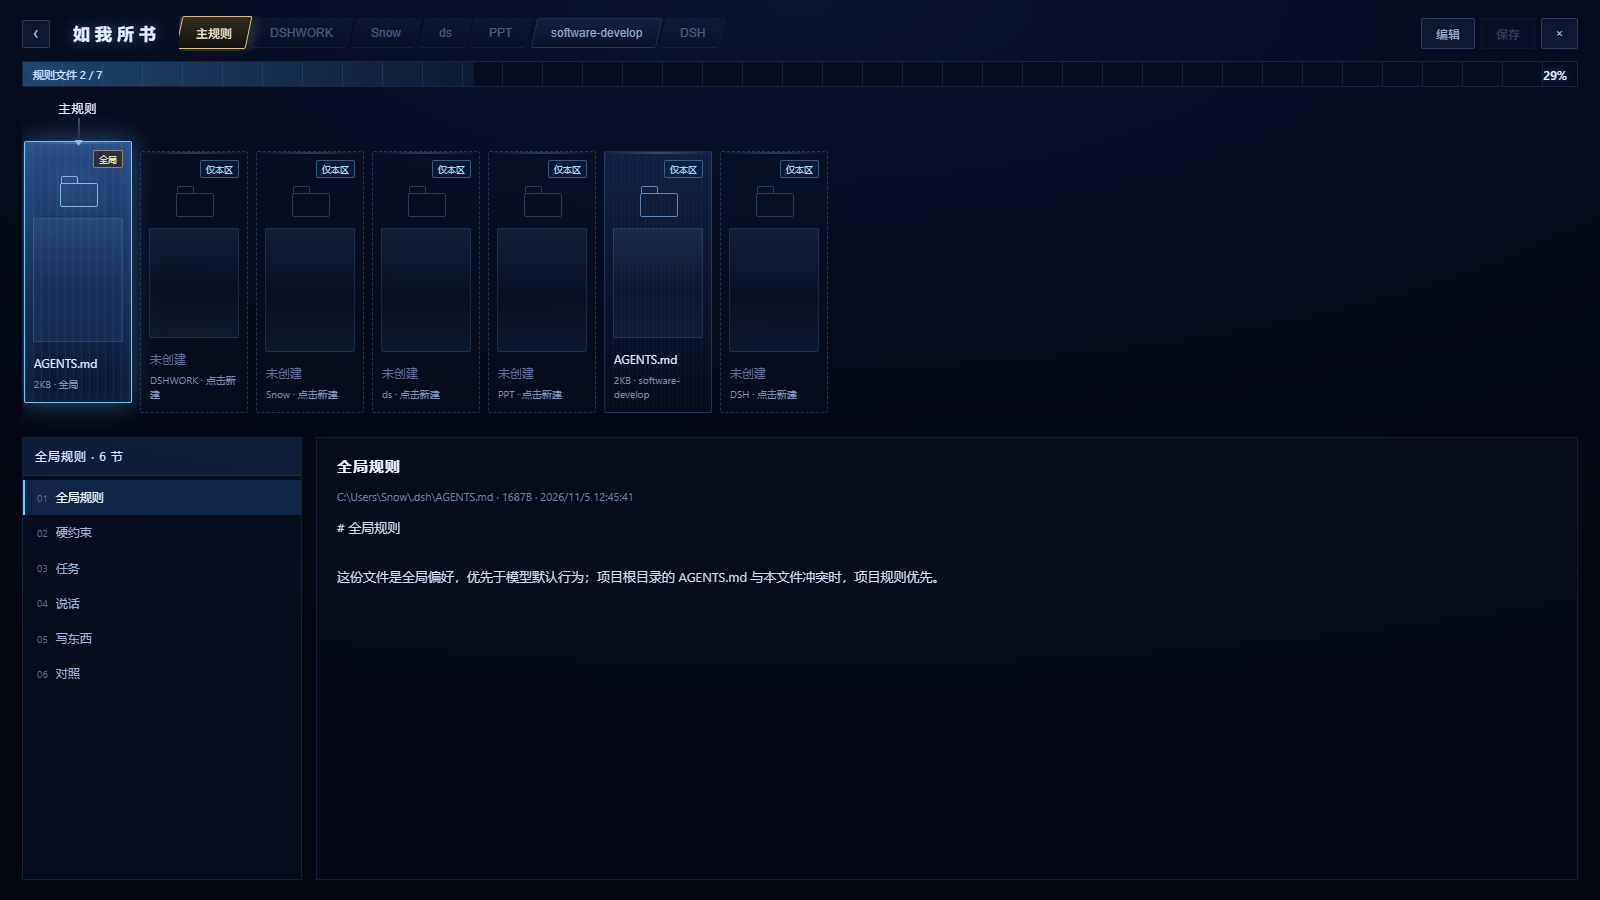
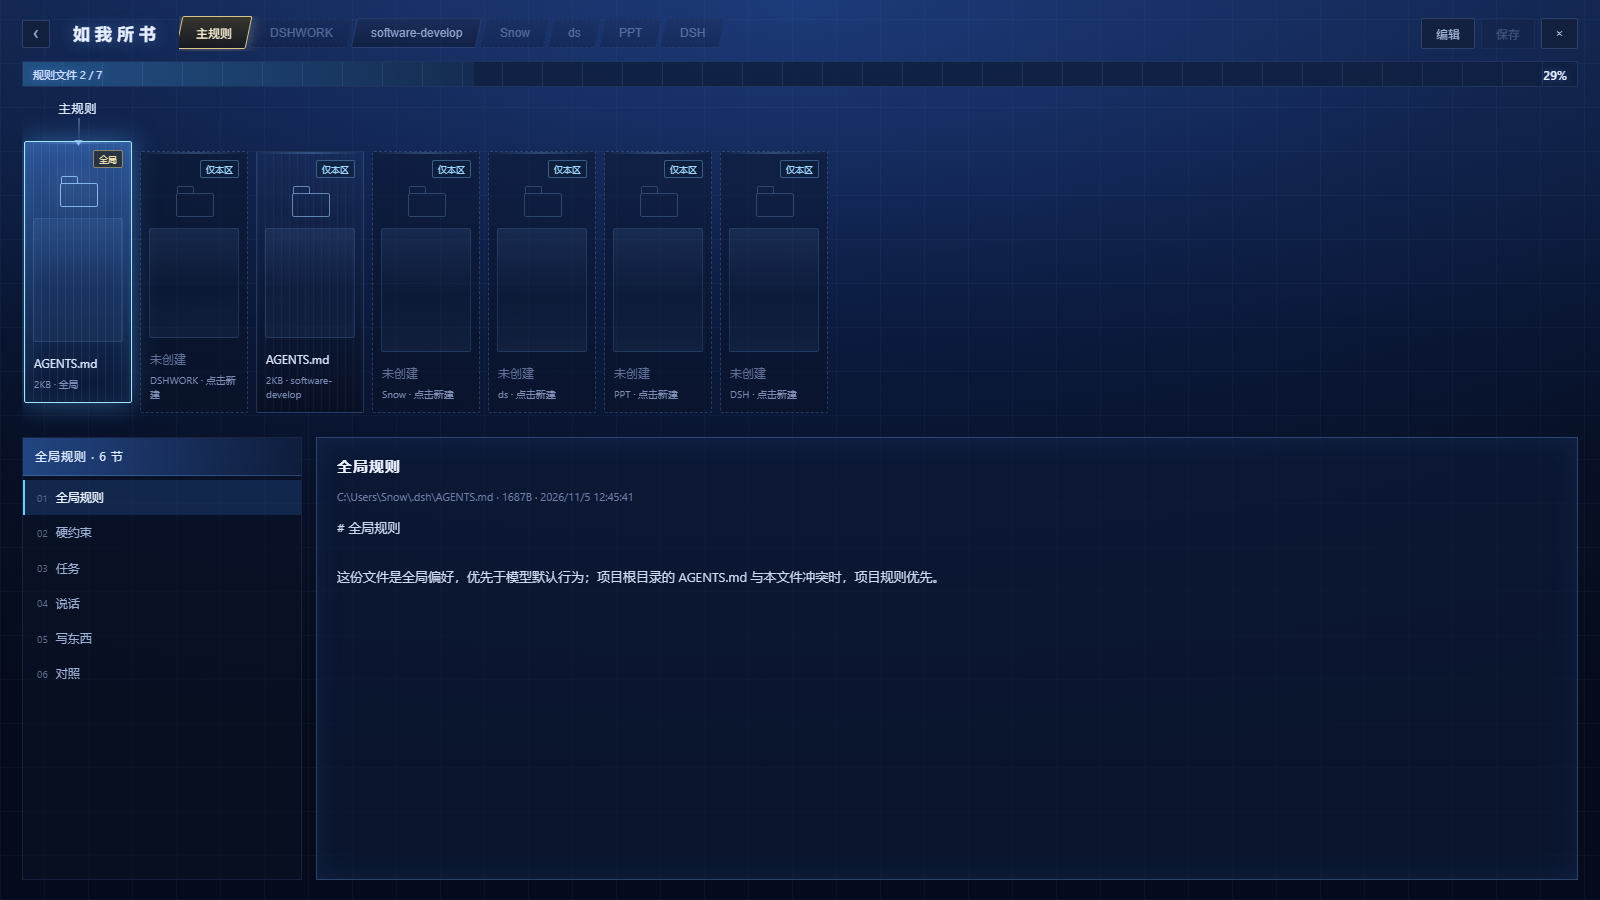
选中态加金色粗环与四角、丝带改正常叠色、修 W 遮蔽导致的 TDZ 崩溃、规则区提亮

diff --git a/public/index.html b/public/index.html
@@ -94,7 +94,11 @@
 
 /* ---------- 第三幕：规则区 ---------- */
 #rules { position: fixed; inset: 0; z-index: 40; display: flex; flex-direction: column;
-  background: radial-gradient(120% 80% at 50% 0%, #0b1430 0%, #050a18 55%, #03060f 100%);
+  background:
+    linear-gradient(180deg, rgba(90,150,255,0.10), transparent 38%),
+    repeating-linear-gradient(0deg, rgba(120,180,255,0.045) 0 1px, transparent 1px 44px),
+    repeating-linear-gradient(90deg, rgba(120,180,255,0.045) 0 1px, transparent 1px 44px),
+    radial-gradient(120% 85% at 50% 0%, #16306b 0%, #0c1c42 38%, #071026 72%, #050b1a 100%);
   padding: 16px 22px 20px; gap: 10px; }
 #rules.hidden { display: none; }
 
@@ -131,7 +135,7 @@
 .r-actions button:disabled { opacity: 0.3; cursor: default; }
 .r-actions button.on { color: #bdf5dd; border-color: rgba(120,220,180,0.6); }
 
-.r-bar { position: relative; height: 26px; background: rgba(8,14,30,0.85);
+.r-bar { position: relative; height: 26px; background: rgba(16,32,64,0.9);
   border: 1px solid rgba(90,120,190,0.22); overflow: hidden; }
 .r-bar-fill { position: absolute; left: 0; top: 0; bottom: 0; width: 0;
   background: linear-gradient(90deg, rgba(70,170,255,0.35), rgba(70,170,255,0.08)); transition: width .4s; }
@@ -178,7 +182,7 @@
 .file-card .f-new { position: absolute; left: 8px; top: 8px; z-index: 2; font-size: 9px; padding: 0 4px;
   border-radius: 2px; color: #1a1206; background: #e8b64c; }
 .file-card:hover { transform: translateY(-5px); border-color: rgba(140,200,255,0.5); }
-.file-card.on { transform: translateY(-10px); border-color: rgba(130,215,255,0.9);
+.file-card.on { transform: translateY(-10px); border-color: rgba(160,230,255,1);
   background:
     repeating-linear-gradient(90deg, rgba(140,200,255,0.09) 0 1px, transparent 1px 8px),
     linear-gradient(180deg, rgba(60,110,190,0.65), rgba(10,24,54,0.76));
@@ -191,8 +195,9 @@
 .r-main { flex: 1; display: grid; grid-template-columns: 280px 1fr; gap: 14px; min-height: 0; }
 .r-list { display: flex; flex-direction: column; min-height: 0; border: 1px solid rgba(90,120,190,0.18);
   background: rgba(10,18,38,0.6); }
-.r-list-head { padding: 9px 12px; font-size: 12px; color: #cfe0ff; letter-spacing: 1px;
-  border-bottom: 1px solid rgba(90,120,190,0.18); background: rgba(40,70,130,0.25); }
+.r-list-head { padding: 9px 12px; font-size: 12px; color: #dcebff; letter-spacing: 1px;
+  border-bottom: 1px solid rgba(110,170,240,0.3);
+  background: linear-gradient(90deg, rgba(60,120,220,0.5), rgba(30,60,120,0.25)); }
 .r-list-body { overflow-y: auto; flex: 1; padding: 4px 0; }
 .sec-item { padding: 8px 12px; font-size: 12px; color: #9db0d6; cursor: pointer;
   display: flex; align-items: center; gap: 8px; border-left: 2px solid transparent; }
@@ -201,8 +206,9 @@
 .sec-item:hover { background: rgba(60,100,180,0.14); color: #cfe0ff; }
 .sec-item.on { color: #eaf3ff; border-left-color: #6cd0ff; background: rgba(60,130,230,0.2); }
 
-.r-detail { display: flex; flex-direction: column; min-height: 0; gap: 10px;
-  border: 1px solid rgba(90,120,190,0.18); background: rgba(8,14,30,0.55); padding: 16px 20px; }
+.r-detail { display: flex; flex-direction: column; min-height: 0; gap: 10px; position: relative;
+  border: 1px solid rgba(110,170,240,0.32); background: rgba(14,28,58,0.62); padding: 16px 20px;
+  box-shadow: inset 0 0 30px rgba(70,140,255,0.10); }
 .r-detail h3 { margin: 0; font-size: 15px; font-weight: 600; color: #eaf2ff; letter-spacing: 1px; }
 .r-meta { font-size: 11px; color: #6f80a8; word-break: break-all; }
 #r-view { flex: 1; overflow: auto; margin: 0; font-size: 13px; line-height: 1.9; color: #cfdaf0;
@@ -818,6 +824,8 @@
     } else if (stage === 'morph') {
       morphT = Math.max(0, Math.min(1, morphT + (dt / MORPH_SECONDS) * morphDir));
       focusTarget.x *= 0.88; focusTarget.y *= 0.88; focusTarget.z *= 0.88;
+      // 凝缩时把 yaw 压回 0，保证每一轮的收束角度完全一样
+      target.yaw += (0 - target.yaw) * 0.16;
       if (morphT >= 1) stage = 'symbol';
       else if (morphT <= 0) { stage = 'galaxy'; setChrome(true); }
     }
@@ -896,133 +904,201 @@
     const cx = W / 2, cy = H / 2;
     const hover = hoverAmt;
     const selNow = stage === 'selected' || stage === 'panel';
-    const f = 1 + 0.03 * hover;
-    const size = SYMBOL_PX * f * (infScale == null ? 1 : infScale);
-    const A = size * 0.5, B = size * 0.21;
-    const pulse = 0.5 + 0.5 * Math.sin(t * 2.4);
+    const size = SYMBOL_PX * (1 + 0.03 * hover) * (infScale == null ? 1 : infScale);
+    const A = size * 0.5, B = size * 0.22;
+    const pulse = 0.5 + 0.5 * Math.sin(t * 2.2);
+    const k = 1 + 0.25 * hover;
+
+    // 曲线与法线
+    const pt = (u) => ({ x: A * Math.sin(u), y: B * Math.sin(u) * Math.cos(u) });
+    const dpt = (u) => ({ x: A * Math.cos(u), y: B * (Math.cos(u) * Math.cos(u) - Math.sin(u) * Math.sin(u)) });
+    const norm = (u) => { const d = dpt(u), L = Math.hypot(d.x, d.y) || 1; return { x: -d.y / L, y: d.x / L }; };
 
     ctx.save();
     ctx.globalCompositeOperation = 'lighter';
-
-    // 背后的紫蓝柔光（不跟着转，否则会有旋涡感）
-    const bgR = size * 0.95;
-    const bg = ctx.createRadialGradient(cx, cy, 0, cx, cy, bgR);
-    bg.addColorStop(0, 'rgba(96,116,230,' + (0.22 * alpha).toFixed(3) + ')');
-    bg.addColorStop(0.55, 'rgba(74,58,190,' + (0.10 * alpha).toFixed(3) + ')');
-    bg.addColorStop(1, 'rgba(18,10,60,0)');
-    ctx.fillStyle = bg;
-    ctx.beginPath(); ctx.arc(cx, cy, bgR, 0, Math.PI * 2); ctx.fill();
-
-    // 外环、刻度、丝带、星核一起自转 —— 录屏里整个徽标是在慢慢转的
-    ctx.save();
     ctx.translate(cx, cy);
-    ctx.rotate(iconSpin);
-    ctx.translate(-cx, -cy);
 
-    // 外环：素材里没有刻度环，只有一圈很淡的冷光
-    const R0 = size * 0.62;
-    const halo = ctx.createRadialGradient(cx, cy, R0 * 0.55, cx, cy, R0 * 1.25);
-    halo.addColorStop(0, 'rgba(90,140,255,0)');
-    halo.addColorStop(0.55, 'rgba(110,170,255,' + (0.06 * alpha * (1 + hover)).toFixed(3) + ')');
-    halo.addColorStop(1, 'rgba(90,140,255,0)');
-    ctx.fillStyle = halo;
-    ctx.beginPath(); ctx.arc(cx, cy, R0 * 1.25, 0, Math.PI * 2); ctx.fill();
+    // 背景：紫蓝星云（没有边界），加满屏放射细线
+    const neb = ctx.createRadialGradient(0, 0, 0, 0, 0, size * 1.15);
+    neb.addColorStop(0, `rgba(120,110,255,${0.30 * alpha})`);
+    neb.addColorStop(0.35, `rgba(96,80,220,${0.16 * alpha})`);
+    neb.addColorStop(0.7, `rgba(64,48,170,${0.06 * alpha})`);
+    neb.addColorStop(1, 'rgba(30,20,90,0)');
+    ctx.fillStyle = neb;
+    ctx.beginPath(); ctx.arc(0, 0, size * 1.15, 0, Math.PI * 2); ctx.fill();
 
-    // 悬停时光沿轨道扫一圈（一条柔和的弧，不是刻度）
-    if (hover > 0.05) {
-      const head = sweep * Math.PI * 2 - Math.PI / 2;
-      const span = 1.1;
-      ctx.lineWidth = 2;
-      // 角度必须从小到大：起点大于终点时 canvas 会绕整整一圈
-      for (let i = 0; i < 18; i++) {
-        const a0 = head - span + span * (i / 18);
-        const a1 = a0 + span / 18 + 0.002;
-        ctx.strokeStyle = 'rgba(190,220,255,' + (0.5 * hover * alpha * Math.pow(i / 18, 2.2)).toFixed(3) + ')';
-        ctx.beginPath();
-        ctx.arc(cx, cy, R0, a0, a1);
-        ctx.stroke();
-      }
+    for (let i = 0; i < 26; i++) {
+      const a = (i / 26) * Math.PI * 2 + spin * 0.1;
+      const len = size * (0.55 + 0.5 * ((i * 37) % 100) / 100);
+      const g = ctx.createLinearGradient(0, 0, Math.cos(a) * len, Math.sin(a) * len);
+      g.addColorStop(0, `rgba(200,215,255,${0.16 * alpha * k})`);
+      g.addColorStop(1, 'rgba(160,180,255,0)');
+      ctx.strokeStyle = g;
+      ctx.lineWidth = 1;
+      ctx.beginPath(); ctx.moveTo(0, 0); ctx.lineTo(Math.cos(a) * len, Math.sin(a) * len); ctx.stroke();
     }
 
-    // 丝带：沿法线方向按宽度剖面填实，中间粗、交点细，像素材里那条拧起来的带子
-    const pt = (u) => ({ x: cx + A * Math.sin(u), y: cy + B * Math.sin(u) * Math.cos(u) });
-    const dpt = (u) => ({ x: A * Math.cos(u), y: B * (Math.cos(u) * Math.cos(u) - Math.sin(u) * Math.sin(u)) });
-    const N = 260;
-    const W0 = size * 0.024;
-    const band = (wid, al) => {
-      ctx.lineCap = 'butt';
-      ctx.lineWidth = 2.4;
-      for (let i = 0; i <= N; i++) {
-        const u = (i / N) * Math.PI * 2;
-        const q = pt(u), d = dpt(u);
-        const len = Math.hypot(d.x, d.y) || 1;
-        const nx = -d.y / len, ny = d.x / len;
-        const half = W0 * wid * (0.3 + 0.7 * Math.abs(Math.sin(u)));
-        ctx.strokeStyle = ribbonColor((q.x - (cx - A)) / (2 * A));
-        ctx.globalAlpha = alpha * al;
-        ctx.beginPath();
-        ctx.moveTo(q.x - nx * half, q.y - ny * half);
-        ctx.lineTo(q.x + nx * half, q.y + ny * half);
-        ctx.stroke();
-      }
-    };
-    band(2.4, 0.08);   // 外发光
-    band(1.0, 0.95);   // 实心带
+    // 金色粗环 + 四角（素材里选中时最明显的那圈）
+    const R = size * 0.62;
+    const ringA = (0.42 + 0.48 * hover) * alpha;
+    const gold = ctx.createLinearGradient(-R, -R, R, R);
+    gold.addColorStop(0, '#f6e6b8');
+    gold.addColorStop(0.35, '#d8b367');
+    gold.addColorStop(0.6, '#f3dfa6');
+    gold.addColorStop(1, '#a97f36');
 
-    // 沿曲线的星尘
-    for (let i = 0; i < 420; i++) {
-      const u = ((i / 420) * Math.PI * 2 + spin) % (Math.PI * 2);
-      const q = pt(u), d = dpt(u);
-      const len = Math.hypot(d.x, d.y) || 1;
-      const nx = -d.y / len, ny = d.x / len;
-      const off = ((i % 9) / 8 - 0.5) * 2 * W0 * 0.9 * (0.3 + 0.7 * Math.abs(Math.sin(u)));
-      ctx.fillStyle = ribbonColor((q.x - (cx - A)) / (2 * A));
-      ctx.globalAlpha = alpha * (0.18 + 0.45 * Math.abs(Math.cos(u)));
-      ctx.fillRect(q.x + nx * off, q.y + ny * off, 1.2, 1.2);
-    }
+    // 主环（粗）
+    ctx.strokeStyle = gold;
+    ctx.globalAlpha = ringA;
+    ctx.lineWidth = 3.4;
+    ctx.beginPath(); ctx.arc(0, 0, R, 0, Math.PI * 2); ctx.stroke();
+    // 环内冷光盘
+    const disc = ctx.createRadialGradient(0, 0, 0, 0, 0, R * 0.95);
+    disc.addColorStop(0, `rgba(70,110,220,${0.22 * alpha * (1 + hover * 0.5)})`);
+    disc.addColorStop(0.6, `rgba(40,70,160,${0.14 * alpha})`);
+    disc.addColorStop(1, 'rgba(20,40,110,0)');
+    ctx.globalAlpha = 1;
+    ctx.fillStyle = disc;
+    ctx.beginPath(); ctx.arc(0, 0, R * 0.95, 0, Math.PI * 2); ctx.fill();
+    // 内侧细环
+    ctx.globalAlpha = ringA * 0.45;
+    ctx.lineWidth = 1;
+    ctx.beginPath(); ctx.arc(0, 0, R * 0.86, 0, Math.PI * 2); ctx.stroke();
 
-    // 中央白核
-    const coreR = size * (0.17 + 0.02 * hover) * (1 + 0.05 * pulse);
-    const g = ctx.createRadialGradient(cx, cy, 0, cx, cy, coreR);
-    g.addColorStop(0, 'rgba(255,255,255,1)');
-    g.addColorStop(0.3, 'rgba(215,230,255,0.72)');
-    g.addColorStop(0.62, 'rgba(150,170,255,0.22)');
-    g.addColorStop(1, 'rgba(90,110,255,0)');
-    ctx.globalAlpha = alpha;
-    ctx.fillStyle = g;
-    ctx.beginPath(); ctx.arc(cx, cy, coreR, 0, Math.PI * 2); ctx.fill();
-
-    // 放射光芒：长短交替，悬停时伸长
-    for (let i = 0; i < 16; i++) {
-      const ang = (i / 16) * Math.PI * 2 + spin * 0.15;
-      const long = i % 4 === 0;
-      const base = long ? 0.26 : (i % 2 ? 0.1 : 0.16);
-      const len = size * base * (1 + 0.35 * hover) * (0.9 + 0.2 * pulse);
-      ctx.strokeStyle = 'rgba(255,255,255,' + ((long ? 0.3 : 0.16) * alpha).toFixed(3) + ')';
-      ctx.lineWidth = long ? 1.4 : 1;
+    // 环上细刻度
+    for (let i = 0; i < 72; i++) {
+      const a = (i / 72) * Math.PI * 2;
+      const big = i % 6 === 0;
+      ctx.globalAlpha = ringA * (big ? 0.85 : 0.35);
+      ctx.strokeStyle = '#f0d9a0';
+      ctx.lineWidth = big ? 1.6 : 1;
       ctx.beginPath();
-      ctx.moveTo(cx + Math.cos(ang) * coreR * 0.6, cy + Math.sin(ang) * coreR * 0.6);
-      ctx.lineTo(cx + Math.cos(ang) * len, cy + Math.sin(ang) * len);
+      ctx.moveTo(Math.cos(a) * R, Math.sin(a) * R);
+      ctx.lineTo(Math.cos(a) * (R + (big ? 7 : 3)), Math.sin(a) * (R + (big ? 7 : 3)));
       ctx.stroke();
     }
 
-    // 横向与纵向的光带
-    for (const [dx, dy, len, a0] of [[1, 0, size * 0.95, 0.5], [0, 1, size * 0.34, 0.22]]) {
-      const lg = ctx.createLinearGradient(cx - dx * len, cy - dy * len, cx + dx * len, cy + dy * len);
-      lg.addColorStop(0, 'rgba(170,205,255,0)');
-      lg.addColorStop(0.5, 'rgba(226,238,255,' + (a0 * (0.7 + 0.6 * hover) * alpha).toFixed(3) + ')');
-      lg.addColorStop(1, 'rgba(170,205,255,0)');
-      ctx.globalAlpha = 1;
-      ctx.fillStyle = lg;
-      if (dx) ctx.fillRect(cx - len, cy - 1.2, len * 2, 2.4);
-      else ctx.fillRect(cx - 1.2, cy - len, 2.4, len * 2);
+    // 四角：45° 方向的尖角装饰
+    for (let i = 0; i < 4; i++) {
+      const a = Math.PI / 4 + (i / 4) * Math.PI * 2;
+      const tip = R * (1.26 + 0.06 * hover);
+      const w = R * 0.11;
+      ctx.globalAlpha = ringA;
+      ctx.fillStyle = gold;
+      ctx.beginPath();
+      ctx.moveTo(Math.cos(a) * R * 0.99 - Math.sin(a) * w, Math.sin(a) * R * 0.99 + Math.cos(a) * w);
+      ctx.lineTo(Math.cos(a) * tip, Math.sin(a) * tip);
+      ctx.lineTo(Math.cos(a) * R * 0.99 + Math.sin(a) * w, Math.sin(a) * R * 0.99 - Math.cos(a) * w);
+      ctx.closePath();
+      ctx.fill();
+      // 尖端的小亮点
+      ctx.globalAlpha = ringA * 0.9;
+      ctx.fillStyle = '#fff6dd';
+      ctx.beginPath(); ctx.arc(Math.cos(a) * tip, Math.sin(a) * tip, 1.6, 0, Math.PI * 2); ctx.fill();
     }
-    ctx.restore();   // 自转
-    ctx.restore();   // 合成模式
 
-    // 标题与上下细线
+    // 悬停时沿环走的一道高光
+    if (hover > 0.05) {
+      const head = sweep * Math.PI * 2 - Math.PI / 2;
+      const span = 1.2;
+      ctx.globalAlpha = 1;
+      ctx.lineWidth = 3.4;
+      for (let i = 0; i < 16; i++) {
+        const a0 = head - span + span * (i / 16);
+        ctx.strokeStyle = 'rgba(255,246,220,' + (0.55 * hover * alpha * Math.pow(i / 16, 2)).toFixed(3) + ')';
+        ctx.beginPath(); ctx.arc(0, 0, R, a0, a0 + span / 16 + 0.003); ctx.stroke();
+      }
+    }
+    ctx.globalAlpha = 1;
+
+    // 笔刷丝带：沿法线做多边形填充（宽、边缘毛糙）
+    const grad = ctx.createLinearGradient(-A, 0, A, 0);
+    grad.addColorStop(0.00, '#57e8ff');
+    grad.addColorStop(0.18, '#8ef7ff');
+    grad.addColorStop(0.34, '#ff8ad8');
+    grad.addColorStop(0.50, '#fff4ff');
+    grad.addColorStop(0.66, '#ffe98a');
+    grad.addColorStop(0.84, '#f7ff9c');
+    grad.addColorStop(1.00, '#9dff8a');
+
+    const bandPath = (half, seedPhase) => {
+      const N = 96;
+      ctx.beginPath();
+      for (let i = 0; i <= N; i++) {
+        const u = (i / N) * Math.PI * 2;
+        const q = pt(u), n = norm(u);
+        // 宽度剖面：两端粗、交点细；再用正弦加点毛糙
+        const w = half * (0.28 + 0.72 * Math.abs(Math.sin(u)))
+          * (0.85 + 0.15 * Math.sin(u * 9 + seedPhase));
+        i ? ctx.lineTo(q.x + n.x * w, q.y + n.y * w) : ctx.moveTo(q.x + n.x * w, q.y + n.y * w);
+      }
+      for (let i = N; i >= 0; i--) {
+        const u = (i / N) * Math.PI * 2;
+        const q = pt(u), n = norm(u);
+        const w = half * (0.28 + 0.72 * Math.abs(Math.sin(u)))
+          * (0.85 + 0.15 * Math.sin(u * 9 + seedPhase + 2.1));
+        ctx.lineTo(q.x - n.x * w, q.y - n.y * w);
+      }
+      ctx.closePath();
+    };
+
+    // 外晕 → 中层 → 亮芯，三层叠出笔触
+    const BW = size * 0.058;   // 丝带半宽（别用 W，那是画布宽度）
+    ctx.globalAlpha = alpha * 0.18; ctx.fillStyle = grad; bandPath(BW * 2.2, 0); ctx.fill();
+    ctx.globalAlpha = alpha * 0.3; bandPath(BW * 1.15, 1.7); ctx.fill();
+    // 实心层用正常叠色，避免三层加法叠成白色
+    ctx.globalCompositeOperation = 'source-over';
+    ctx.globalAlpha = alpha * 0.95; bandPath(BW * 0.5, 3.1); ctx.fill();
+    ctx.globalCompositeOperation = 'lighter';
+
+    // 边缘的颗粒（干笔触感）
+    for (let i = 0; i < 260; i++) {
+      const u = (i / 260) * Math.PI * 2 + (i % 7) * 0.03;
+      const q = pt(u), n = norm(u);
+      const w = BW * (0.3 + 0.75 * Math.abs(Math.sin(u))) * (1.15 + 1.5 * ((i * 31) % 100) / 100);
+      const side = i % 2 ? 1 : -1;
+      const px = q.x + n.x * w * side, py = q.y + n.y * w * side;
+      ctx.globalAlpha = alpha * (0.06 + 0.12 * ((i * 17) % 100) / 100);
+      ctx.fillStyle = '#ffffff';
+      ctx.fillRect(px, py, 1.1, 1.1);
+    }
+
+    // 中央四角星芒
+    ctx.globalAlpha = 1;
+    const coreR = size * (0.15 + 0.02 * pulse) * k;
+    const cg = ctx.createRadialGradient(0, 0, 0, 0, 0, coreR * 2.2);
+    cg.addColorStop(0, `rgba(255,255,255,${alpha})`);
+    cg.addColorStop(0.35, `rgba(235,240,255,${0.5 * alpha})`);
+    cg.addColorStop(1, 'rgba(150,170,255,0)');
+    ctx.fillStyle = cg;
+    ctx.beginPath(); ctx.arc(0, 0, coreR * 2.2, 0, Math.PI * 2); ctx.fill();
+
+    // 四根主光芒（上下左右）+ 八根短的
+    const spikes = [[0, 0.34, 2.6, 0.9], [Math.PI, 0.34, 2.6, 0.9], [Math.PI / 2, 0.28, 2.4, 0.85], [-Math.PI / 2, 0.28, 2.4, 0.85]];
+    for (const [a0, lenF, wid, al] of spikes) {
+      const ang = a0 + iconSpin;
+      const len = size * lenF * k * (1 + 0.05 * pulse);
+      const g = ctx.createLinearGradient(0, 0, Math.cos(ang) * len, Math.sin(ang) * len);
+      g.addColorStop(0, `rgba(255,255,255,${al * alpha})`);
+      g.addColorStop(1, 'rgba(220,235,255,0)');
+      ctx.strokeStyle = g;
+      ctx.lineWidth = wid;
+      ctx.beginPath(); ctx.moveTo(-Math.cos(ang) * len * 0.55, -Math.sin(ang) * len * 0.55);
+      ctx.lineTo(Math.cos(ang) * len, Math.sin(ang) * len); ctx.stroke();
+    }
+    for (let i = 0; i < 8; i++) {
+      const ang = (Math.PI / 4) + (i / 8) * Math.PI * 2 + iconSpin * 1.2;
+      const len = size * 0.13 * k;
+      ctx.strokeStyle = `rgba(255,255,255,${0.22 * alpha})`;
+      ctx.lineWidth = 1.2;
+      ctx.beginPath(); ctx.moveTo(0, 0); ctx.lineTo(Math.cos(ang) * len, Math.sin(ang) * len); ctx.stroke();
+    }
+
+    ctx.restore();
+
+    // 标题与细线（不跟着转）
     if (alpha > 0.5) {
-      const ty = cy + size * 0.78 + 24;
+      const ty = cy + size * 0.62 + 40;
       ctx.save();
       ctx.globalAlpha = alpha;
       ctx.fillStyle = selNow ? '#eef5ff' : '#cfd9f5';
@@ -1051,6 +1127,7 @@
 
   function startMorph() {
     if (stage !== 'galaxy') return;
+    autoSpin = false; vYaw = 0; vPitch = 0; target.yaw = 0;
     setChrome(false);
     document.getElementById('detail').classList.remove('on');
     stage = 'morph'; morphT = 0; morphDir = 1; sweep = 0;
